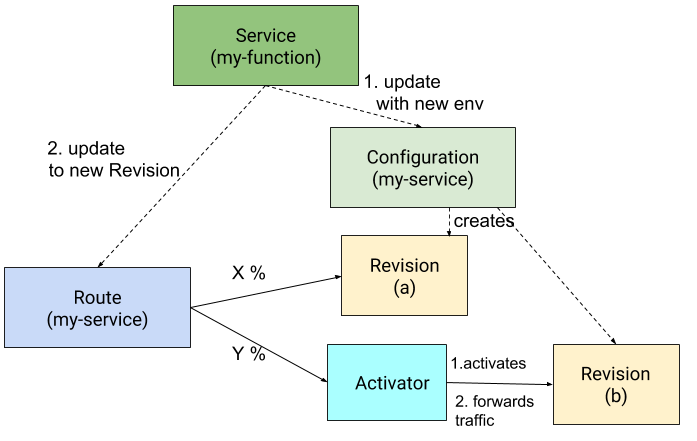
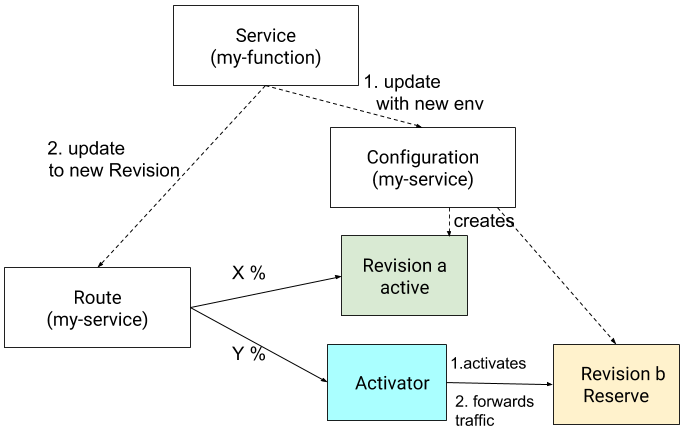
address cr

diff --git a/pkg/activator/README.md b/pkg/activator/README.md
@@ -16,19 +16,28 @@ Elafros Route objects control traffic split via Istio route rules. When a revisi
 due to inactivity, instead of letting the revision get traffic assignment directly, Route defines route
 rules such that the activator gets the portion of traffic for the revision.
 
-### Route rules when at most one revision is in Reserve state
+### Route rules when all revisions are active
+
+When all revisions are active, the activator service does not get any traffic.
 Below is an example where the route (my-service) has two traffic targets, Revision a and Revision b, and
-both revisions are active.
+both revisions are active. Note activator does not appear.
 
 ![active revision](images/activator_activeRevision.png)
 
-When Revision b is in Reserve state, the route would have Revision a and the Activator as traffic targets.
-Upon receiving requests, Activator activates Revision b and forwards requests to Revision b after it is
-ready.
+### Route rules when one revision is in Reserve state
+
+When one revision is in Reserve state, the activator services gets its traffic assignment.
+Below is an example where Revision a is active and Revision b is in Reserve. In this case, the Activator
+gets traffic assignment for Revision b. Upon receiving requests, Activator activates Revision b and
+forwards requests to Revision b after it is ready. After the revision is activated and ready to serve
+traffic, the revision gets assigned portion of traffic directly.
 
 ![reserve revision](images/activator_reserveRevision.png)
 
 ### Route rules when multiple revisions are in Reserve state
+
 When there are two or more revisions are in Reserve state, the Activator service gets traffic for all
 Reserve revisions. Among Reserve revisions, Activator activates the revision with the largest traffic
 weight, and forwards traffic to it. There is room for improvement for this behavior ([#882](https://github.com/elafros/elafros/issues/882)).
+After the revision is activated and ready to serve traffic, activator gets the protion of traffic
+for all the rest Reserve revisions.
